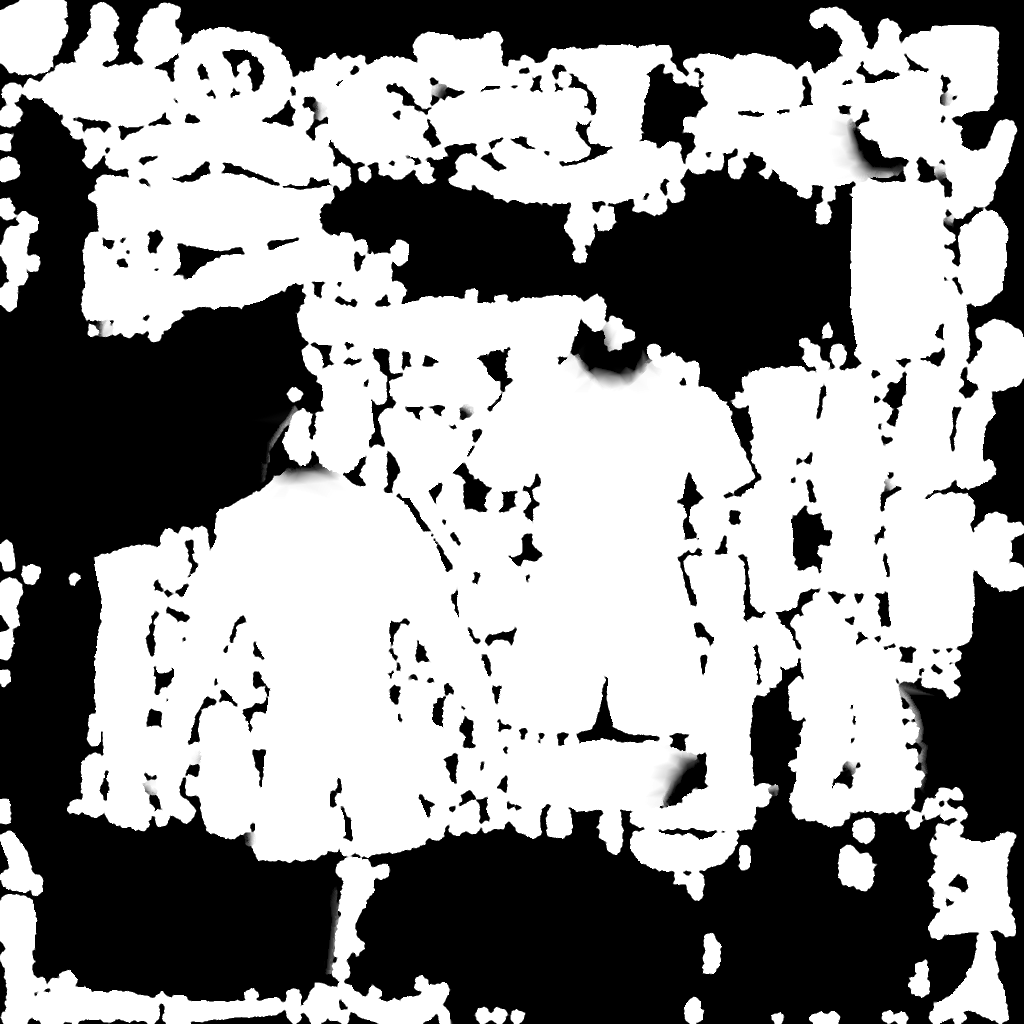
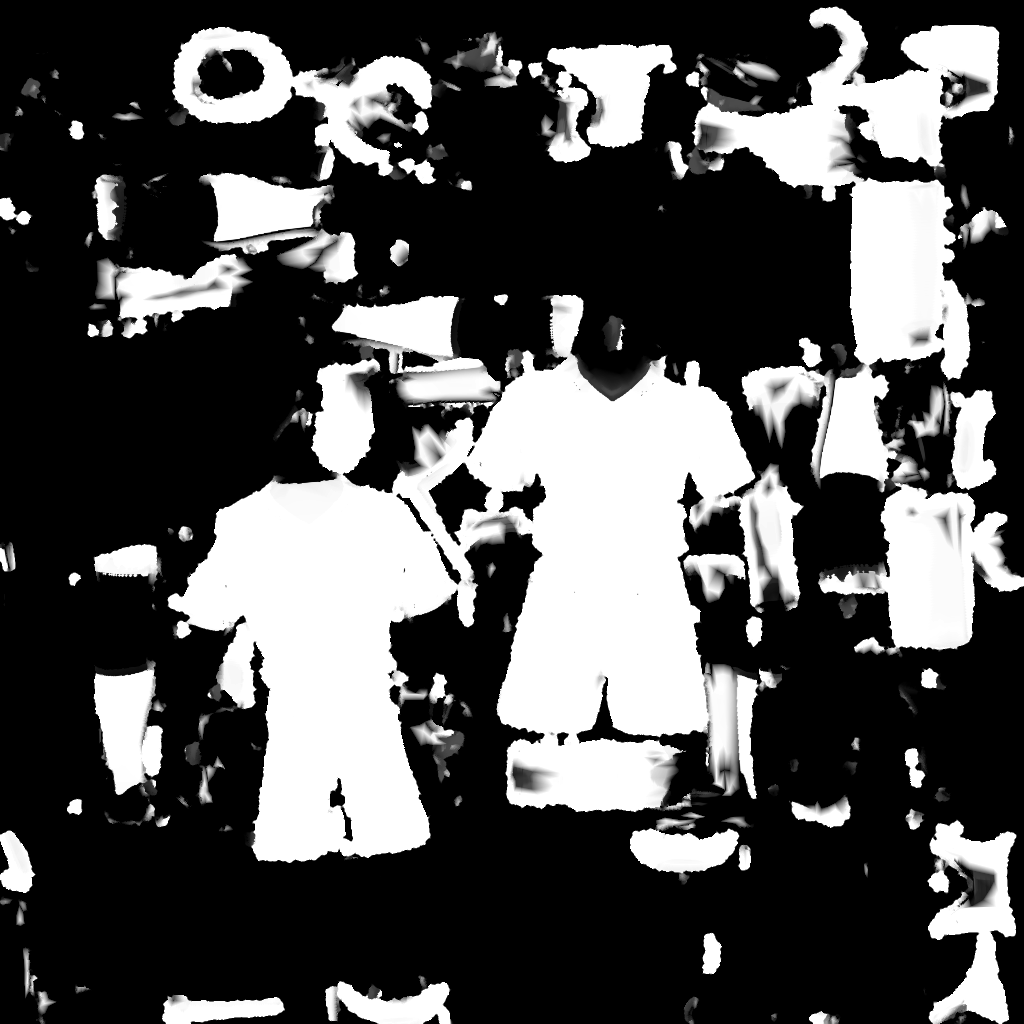
Bake: cloth map (calibrated, denoised) multiplied into the kit mask so recolour is confident on cloth and never touches skin; head-bone override for low chins

diff --git a/Panna/Game/Render/KitRecolor.swift b/Panna/Game/Render/KitRecolor.swift
@@ -85,14 +85,18 @@ enum KitRecolor {
                     else if mx == g { hue = (b - r) / d + 2 }
                     else { hue = (r - g) / d + 4 }
                     hue /= 6
-                    let satW = smooth(0.3, 0.48, sat) * smooth(0.06, 0.16, mx) * region
+                    // Inside the baked cloth map the drawing already said "kit": recolour confidently there.
+                    let loose = smooth(0.55, 0.9, region)
+                    let satW = smooth(0.3 - 0.15 * loose, 0.48 - 0.2 * loose, sat) * smooth(0.06, 0.16, mx) * region
+                    let tolRe = tolR + 0.04 * loose
                     let dh = abs(hue - (cal.red < 0 ? cal.red + 1 : cal.red))
                     let dRed = min(dh, 1 - dh)
                     // Pale pink highlights on the red jersey: skin never sits this close to pure red hue.
                     // Jersey hue comes from the character's own sheet; the tolerance tightens when skin is a saturated near-red.
-                    let satR = max(satW, smooth(0.14, 0.28, sat) * smooth(0.06, 0.16, mx) * region * (1 - smooth(tolR * 0.5, tolR * 0.9, dRed)))
-                    let wRed = (1 - smooth(tolR, tolR + 0.012, dRed)) * satR
-                    let wYel = (1 - smooth(0.028, 0.042, abs(hue - 0.14))) * satW
+                    let satR = max(satW, smooth(0.14, 0.28, sat) * smooth(0.06, 0.16, mx) * region * (1 - smooth(tolRe * 0.5, tolRe * 0.9, dRed)))
+                    let wRed = (1 - smooth(tolRe, tolRe + 0.012, dRed)) * satR
+                    let tolY = 0.028 + 0.03 * loose
+                    let wYel = (1 - smooth(tolY, tolY + 0.014, abs(hue - 0.14))) * satW
                     // Blue shorts / green socks sit far from skin and hair hues, so faded paint is caught too.
                     let satC = smooth(0.1, 0.24, sat) * smooth(0.04, 0.1, mx) * region
                     let wBlu = (1 - smooth(0.1, 0.14, abs(hue - cal.blue))) * satC
@@ -104,8 +108,8 @@ enum KitRecolor {
                     }
                     if wRed > 0 { mixIn(P, wRed, shade) }
                     // Bright orange = jersey red bleeding into the trim. Only where it cannot be this character's skin.
-                    let skinClash = cal.skinSat > 0.45 ? (1 - smooth(0.015, 0.03, abs(hue - cal.skinHue))) : 0
-                    let wOr = smooth(0.7, 0.8, sat) * smooth(0.5, 0.62, mx) * smooth(0.028, 0.04, hue) * (1 - smooth(0.095, 0.11, hue)) * (1 - skinClash) * region
+                    let skinClash = (cal.skinSat > 0.45 ? (1 - smooth(0.015, 0.03, abs(hue - cal.skinHue))) : 0) * (1 - loose)
+                    let wOr = smooth(0.7 - 0.3 * loose, 0.8 - 0.3 * loose, sat) * smooth(0.5 - 0.35 * loose, 0.62 - 0.35 * loose, mx) * smooth(0.028, 0.04, hue) * (1 - smooth(0.095, 0.11, hue)) * (1 - skinClash) * region
                     if wOr > 0 {
                         let t = min(1, max(0, (hue - 0.03) / 0.08))
                         mixIn((P.0 + (S.0 - P.0) * t, P.1 + (S.1 - P.1) * t, P.2 + (S.2 - P.2) * t), wOr, shade)

diff --git a/art/blender/unique.py b/art/blender/unique.py
@@ -247,6 +247,7 @@ def kit_calibration(col, mask):
 
 views = {}
 view_px = {}
+view_cloth = {}
 for k in ('front', 'back', 'left', 'right'):
     p = arg('--' + k)
     if p: views[k] = load_view(p, keep_face=(k != 'back'))
@@ -255,6 +256,45 @@ if 'front' in views:
     _calp = os.path.join(ROOT, 'Panna', 'Resources', 'Characters', NAME + '_kit.json')
     json.dump(_cal, open(_calp, 'w'))
     print('UNIQUE kit calibration', _cal)
+
+def build_cloth(key, cal):
+    """Cloth map for the runtime recolour: this sheet's own jersey/trim/shorts/sock hues on a smoothed image
+    (paper grain never counts), plus thin seams where two kit colours blend. Skin never qualifies."""
+    img, (w, h, l, r, t, b), mask = views[key]
+    col = view_px[os.path.abspath(arg('--' + key))][:, :, :3]
+    def box(a_, r_=2):
+        c_ = np.cumsum(np.cumsum(np.pad(a_, ((r_ + 1, r_), (r_ + 1, r_)), mode='edge'), 0), 1)
+        k_ = 2 * r_ + 1
+        return (c_[k_:, k_:] - c_[:-k_, k_:] - c_[k_:, :-k_] + c_[:-k_, :-k_]) / (k_ * k_)
+    sm = np.stack([box(col[:, :, i]) for i in range(3)], 2)
+    mx_ = sm.max(2); mn_ = sm.min(2); d_ = mx_ - mn_
+    sat = d_ / np.maximum(mx_, 1e-6)
+    hue = np.zeros_like(mx_); nz = d_ > 1e-6
+    ir = nz & (mx_ == sm[:, :, 0]); ig = nz & (mx_ == sm[:, :, 1]) & ~ir; ib = nz & ~ir & ~ig
+    hue[ir] = ((sm[:, :, 1] - sm[:, :, 2])[ir] / d_[ir]) % 6; hue[ig] = (sm[:, :, 2] - sm[:, :, 0])[ig] / d_[ig] + 2; hue[ib] = (sm[:, :, 0] - sm[:, :, 1])[ib] / d_[ib] + 4
+    hue /= 6
+    redh = (cal.get('red') or (0.0, 0))[0]; skin = cal.get('skin') or (0.07, 0.3)
+    tol = max(0.012, min(0.035, (skin[0] - redh) * 0.5)) if skin[1] > 0.45 else 0.035
+    dr = np.abs(hue - (redh % 1.0)); dr = np.minimum(dr, 1 - dr)
+    ok = (sat > 0.4) & (mx_ > 0.12)
+    red = ok & (dr < tol)
+    yel = ok & (np.abs(hue - 0.14) < 0.035)
+    blu = (sat > 0.25) & (mx_ > 0.08) & (np.abs(hue - ((cal.get('blue') or (0.63, 0))[0])) < 0.12)
+    grn = (sat > 0.25) & (mx_ > 0.08) & (np.abs(hue - ((cal.get('green') or (0.37, 0))[0])) < 0.14)
+    def dil(m_, n):
+        m_ = m_.copy()
+        for _ in range(n): m_ |= np.roll(m_, 1, 0) | np.roll(m_, -1, 0) | np.roll(m_, 1, 1) | np.roll(m_, -1, 1)
+        return m_
+    def ero(m_, n):
+        m_ = m_.copy()
+        for _ in range(n): m_ &= np.roll(m_, 1, 0) & np.roll(m_, -1, 0) & np.roll(m_, 1, 1) & np.roll(m_, -1, 1)
+        return m_
+    kit = red | yel | blu | grn
+    seam = (sat > 0.45) & ~kit & ((dil(red, 4) & dil(yel, 4)) | (dil(red, 4) & dil(blu, 4)))
+    cloth = dil(ero(kit | seam, 2), 2) & mask       # opening: speckle never survives
+    view_cloth[os.path.abspath(arg('--' + key))] = cloth.astype(np.float32)
+for _k in ('front', 'back'):
+    if _k in views: build_cloth(_k, _cal)
 
 def register_vertical(key):
     """Refine vertical scale/offset of a front/back view by matching silhouette width profiles to the mesh."""
@@ -567,6 +607,8 @@ _Hz = zmax - zmin
 _ch = [abs(v.co.x) for v in obj.data.vertices if zmin + 0.70 * _Hz <= v.co.z <= zmin + 0.74 * _Hz]
 _thw0 = sorted(_ch)[int(len(_ch) * 0.6)] if _ch else 0.15 * _Hz
 def kit_like(c):
+    c = tuple(min(1.0, max(0.0, float(x))) for x in c)
+    if max(c) - min(c) < 1e-6: return max(c) > 0.8 or max(c) < 0.22
     h_, s_, v_ = colorsys.rgb_to_hsv(*c)
     if v_ < 0.22: return True                       # ink / deep shading
     if s_ < 0.3: return v_ > 0.8                   # white trim/highlight, not grey-beige skin
@@ -710,6 +752,30 @@ subprocess.run(['sips', '-s', 'format', 'jpeg', '-s', 'formatOptions', '88', tex
 if os.path.exists(jpg) and '/Panna/Resources/' in tex_path: os.remove(tex_path)
 print('UNIQUE baked texture', jpg)
 
+# ------------------------------------------------------------------ cloth map (same projection, cloth masks instead of colours)
+import colorsys as _cs
+for k in list(views.keys()):
+    img_k = views[k][0]
+    hh, ww = int(views[k][1][1]), int(views[k][1][0])
+    cm = view_cloth.get(os.path.abspath(arg('--' + k))) if k in ('front', 'back') else None
+    if cm is None or cm.shape != (hh, ww): cm = np.zeros((hh, ww), np.float32)
+    img_k.pixels[:] = np.dstack([cm, cm, cm, np.ones_like(cm)]).ravel()
+    img_k.update()
+def _cloth_v(c):
+    c = tuple(min(1.0, max(0.0, float(x))) for x in c)
+    if max(c) < 1e-4 or max(c) - min(c) < 1e-6: return 0.0
+    h_, s_, v_ = _cs.rgb_to_hsv(*c)
+    if s_ < 0.35 or v_ < 0.12: return 0.0
+    return 1.0 if (h_ < 0.035 or h_ > 0.93 or abs(h_ - 0.14) < 0.05 or abs(h_ - 0.63) < 0.12 or abs(h_ - 0.37) < 0.12) else 0.0
+for i, c in enumerate(vcol):
+    cv = _cloth_v(c)
+    vc_layer.data[i].color = (cv, cv, cv, vconf[i])
+cloth_img = bpy.data.images.new('cloth', 1024, 1024, alpha=False)
+bake_node.image = cloth_img
+nodes.active = bake_node
+bpy.ops.object.bake(type='EMIT')
+print('UNIQUE cloth map baked')
+
 if os.environ.get('DEBUG_FLANK'):
     bpx = np.array(bake_img.pixels[:], dtype=np.float32).reshape(TEX, TEX, 4)
     uvd = obj.data.uv_layers.active.data
@@ -820,15 +886,22 @@ for v in obj.data.vertices:
     val = 1.0 - min(1.0, max(0.0, (hw - 0.35) / 0.3))
     # Below the collarbone it is always shirt (the neck bone's weights reach the upper chest).
     zf = (v.co.z - mn.z) / H
-    if zf < 0.79: val = 1.0
-    elif zf < 0.81: val = max(val, (0.81 - zf) / 0.02)
+    # (except big-headed characters whose chin sits low: strong head/neck weight still wins)
+    hhead = sum(g.weight for g in v.groups if gname.get(g.group) == 'head') / tot
+    headish = min(1.0, max(0.0, (hhead - 0.5) / 0.3))   # the head bone only: neck weights bleed onto the chest
+    if zf < 0.79: val = max(val, 1.0 - headish)
+    elif zf < 0.81: val = max(val, (0.81 - zf) / 0.02 * (1.0 - headish))
     if v.co.z > neck_z: val = 0.0
     elif v.co.z > neck_z - 0.02 * H: val *= (neck_z - v.co.z) / (0.02 * H)
     km.data[v.index].color = (val, val, val, 1)
 mm = bpy.data.materials.new('maskbake'); mm.use_nodes = True
 mt = mm.node_tree; mt.nodes.clear()
 mo = mt.nodes.new('ShaderNodeOutputMaterial'); me_ = mt.nodes.new('ShaderNodeEmission'); vcn = mt.nodes.new('ShaderNodeVertexColor'); vcn.layer_name = 'kitmask'
-mt.links.new(vcn.outputs['Color'], me_.inputs['Color']); mt.links.new(me_.outputs[0], mo.inputs['Surface'])
+# Region = clothing zone (skeleton) x cloth map (what the drawing says is kit, not skin/hair).
+ctex = mt.nodes.new('ShaderNodeTexImage'); ctex.image = cloth_img; ctex.interpolation = 'Linear'
+cmul = mt.nodes.new('ShaderNodeMix'); cmul.data_type = 'RGBA'; cmul.blend_type = 'MULTIPLY'; cmul.inputs['Factor'].default_value = 1.0
+mt.links.new(vcn.outputs['Color'], cmul.inputs['A']); mt.links.new(ctex.outputs['Color'], cmul.inputs['B'])
+mt.links.new(cmul.outputs['Result'], me_.inputs['Color']); mt.links.new(me_.outputs[0], mo.inputs['Surface'])
 mimg = bpy.data.images.new('maskimg', 1024, 1024, alpha=False)
 mnode = mt.nodes.new('ShaderNodeTexImage'); mnode.image = mimg; mt.nodes.active = mnode
 saved_mats = list(obj.data.materials)
